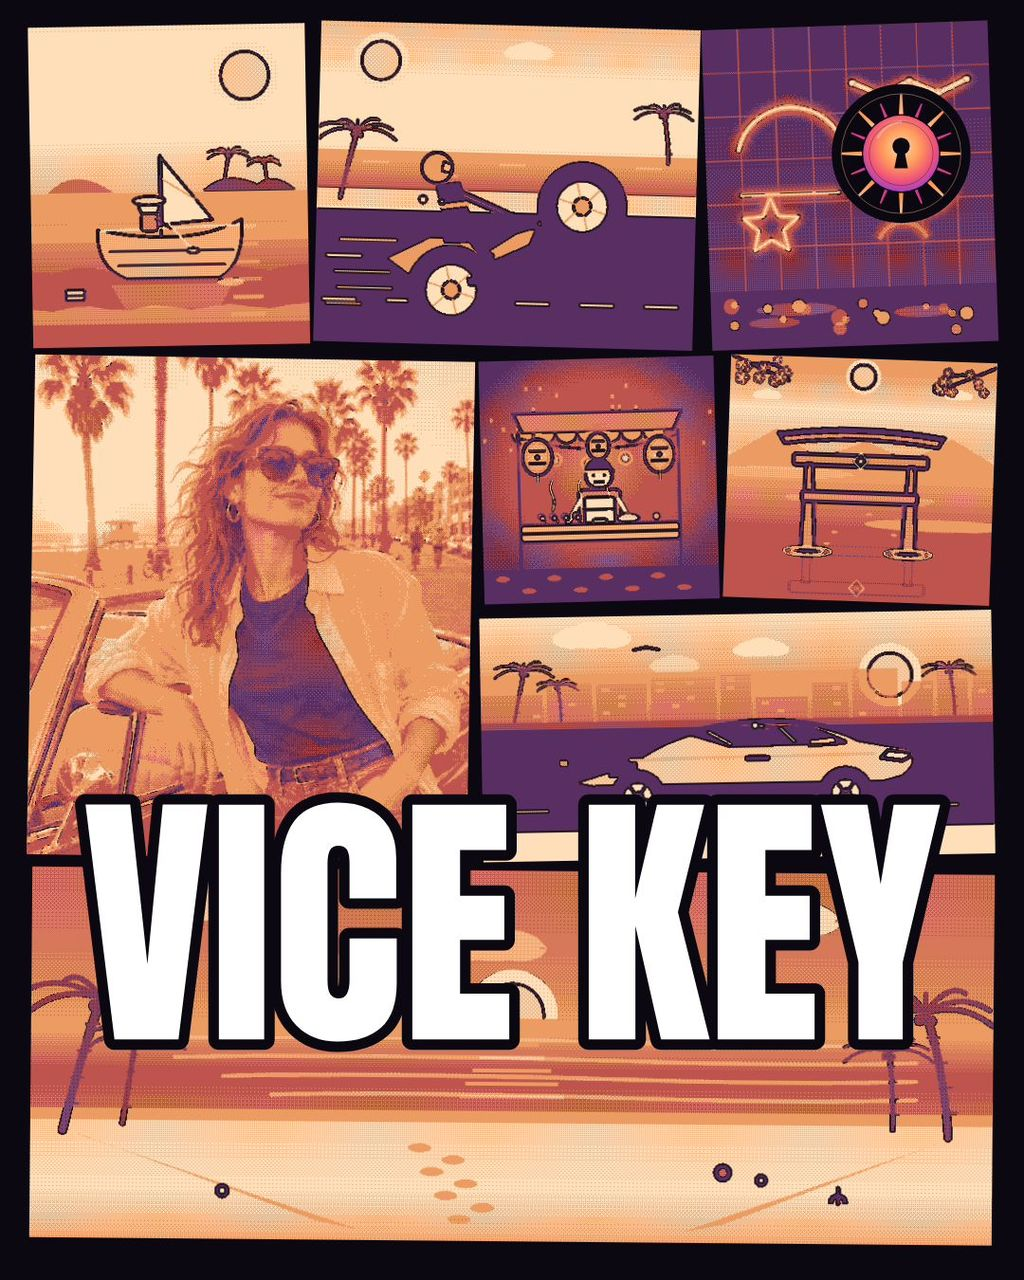
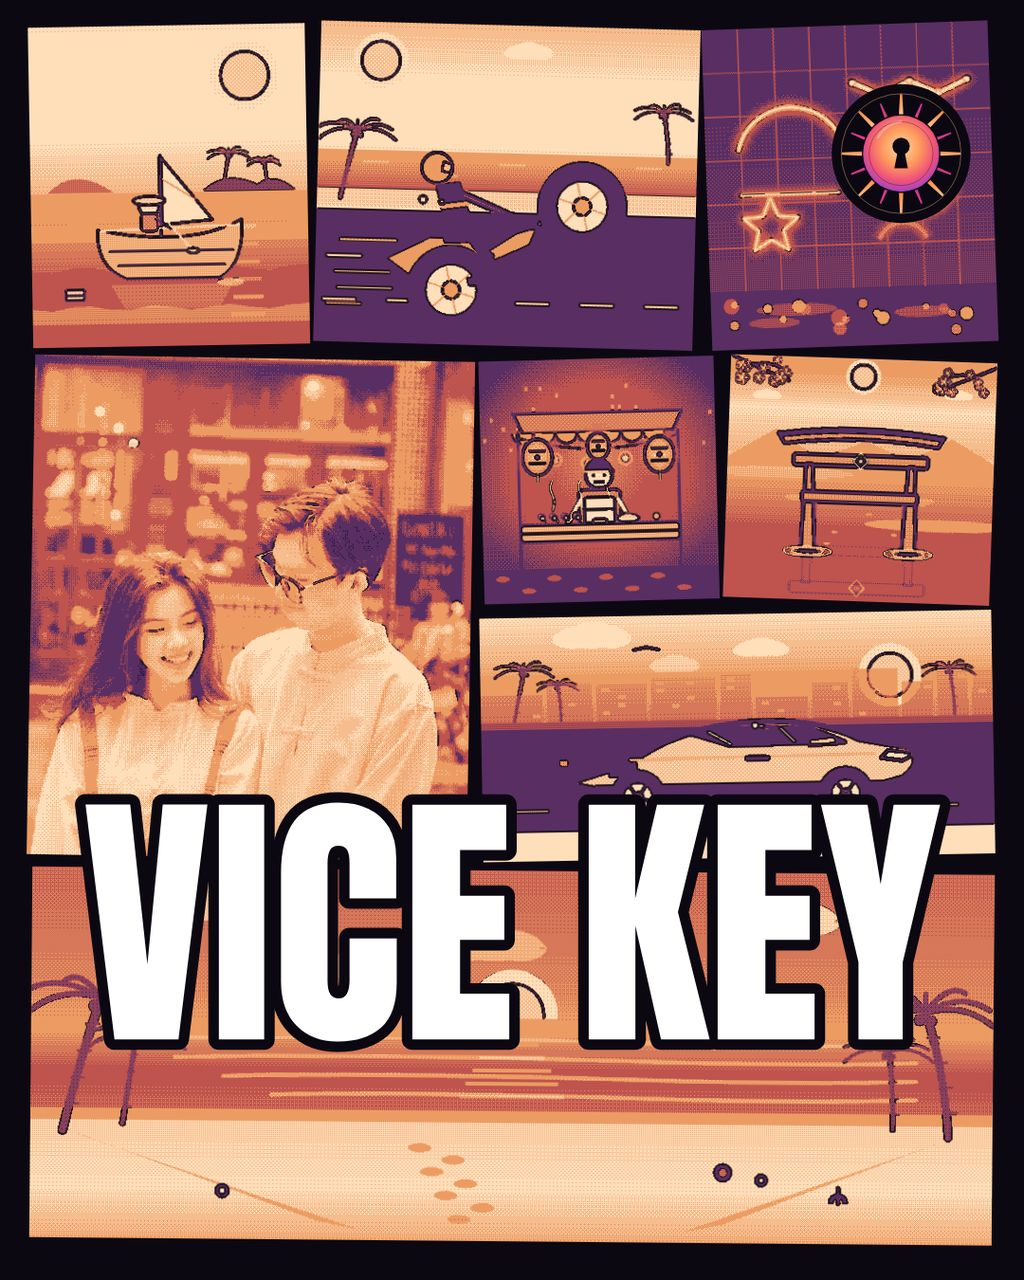
VICE KEY round 3: real couple photo as hero + Kyoto vignette
- Hero (shot 2, Key Art/Sunset): free-stock couple photo
  app/samples/couple-neon.jpg (Pexels License, Toan Van) with a
  zoom-1.15 anchor crop that excludes the Baozi neon sign entirely;
  both faces large, clear of the title band.
- Shot 3 (5-panel grid/Neon Nights): same couple in the hero
  (zoom 1.5, sign excluded) + rainy-Kyoto couple photo
  app/samples/couple-kyoto.jpg (Pexels License, Michael Dupuis)
  as a vignette in the car panel.
- App UI gains one-click sample buttons for both couple photos;
  footer + README state honestly that the neon couple is
  Vietnamese, not the brief's Japanese couple, and that the
  Kyoto faces are small — demo input, not a relabelled brief.
- Shots 1 (pier/editor) and 4 (3-size export/Teal Heat) unchanged.
- Validation: CDP capture (VICEKEY_SHOT_READY), title 83.2% width,
  caps y 62.7-81.3%, perf median preview 74ms / export 221ms,
  dossier 1,166,085 bytes, zero dotfiles in output.

diff --git a/app/src/shots.js b/app/src/shots.js
@@ -48,10 +48,21 @@ async function shot1() {
 }
 
 async function shot2(emblemImg) {
-  // Hero Key Art full-bleed: boulevard.jpg (real sunset portrait) in the hero.
-  const photo = await loadPhoto('samples/boulevard.jpg');
+  // Hero Key Art full-bleed: couple-neon.jpg (free-stock couple photo,
+  // Pexels License, photographer Toàn Văn — Vietnamese couple, NOT the
+  // brief's Japanese couple; demo input only) in the hero.
+  // Hero crop, worked out from the photo's own geometry (1600x2400):
+  // the orange "Baozi" neon sign spans y ~11-27% of the photo. Key Art
+  // hero panel ratio is 0.882, so at zoom 1.15 the cover crop is
+  // 1391x1577 px and its top edge can sit at y=823/2400 (34%) — the sign
+  // is fully above the crop. Anchor (0.55, 0.72) centres the two faces;
+  // woman's chin lands ~60% of the panel, man's ~54% — both clear of
+  // the title band (panel ends at y 67% of the cover).
+  const photo = await loadPhoto('samples/couple-neon.jpg');
   const canvas = makeCanvas('4:5', false);
-  const assignments = assignPhotos([photo], panelFillOrder('keyart', '4:5'));
+  const assignments = new Map([
+    ['E', { photo, zoom: 1.15, anchor: { x: 0.55, y: 0.72 } }],
+  ]);
   await renderCover(canvas, {
     layout: 'keyart',
     grade: 'sunset',
@@ -65,13 +76,23 @@ async function shot2(emblemImg) {
 }
 
 async function shot3(emblemImg) {
-  // 5-panel grid, Neon Nights, group photo in the hero + pier in the car panel.
-  const group = await loadPhoto('test-photos/test-group.jpg');
-  const pier = await loadPhoto('samples/pier.jpg');
+  // 5-panel grid, Neon Nights, multi-photo: couple-neon.jpg in the hero
+  // (same couple as shot 2, new layout + new grade) + couple-kyoto.jpg
+  // (rainy Kyoto night, photographer Michael Dupuis, Pexels License —
+  // genuinely Japan, faces small) as a vignette in the car panel (H).
+  // Grid hero ratio is 0.603, so at zoom 1.5 the cover crop is 965x1600 px
+  // with its top edge at y=800/2400 (33%) — the "Baozi" sign is fully
+  // above the crop again; both faces stay in frame, woman's chin ~62%
+  // of the panel (cover y ~43%, clear of the title band).
+  // Kyoto vignette: panel H ratio is 1.10 (landscape), so the crop is the
+  // full 1600 px wide x 1455 px tall; anchor (0.65, 0.50) centres the
+  // couple under the umbrella (faces ~y 37-40% of the panel).
+  const neon = await loadPhoto('samples/couple-neon.jpg');
+  const kyoto = await loadPhoto('samples/couple-kyoto.jpg');
   const canvas = makeCanvas('4:5', false);
   const assignments = new Map([
-    ['E', { photo: group, zoom: 1 }],
-    ['H', { photo: pier, zoom: 1 }],
+    ['E', { photo: neon, zoom: 1.5, anchor: { x: 0.56, y: 0.75 } }],
+    ['H', { photo: kyoto, zoom: 1, anchor: { x: 0.65, y: 0.5 } }],
   ]);
   await renderCover(canvas, {
     layout: 'grid',

diff --git a/app/index.html b/app/index.html
@@ -27,6 +27,8 @@
       <div class="sample-row">
         <button type="button" id="sample-pier">Sample: pier</button>
         <button type="button" id="sample-boulevard">Sample: boulevard</button>
+        <button type="button" id="sample-couple">Sample: couple (neon)</button>
+        <button type="button" id="sample-kyoto">Sample: couple (Kyoto rain)</button>
       </div>
       <div class="photo-strip" id="photo-strip" aria-live="polite"></div>
       <p class="note" id="photo-note">No photos yet — the cover uses built-in demo art.</p>
@@ -78,7 +80,7 @@
 </main>
 
 <footer class="app-footer">
-  <p>Title font: Anton (SIL Open Font License 1.1) — see OFL-Anton.txt. Sun-disc emblem, all panel art and lettering are original procedural work. Sample photos are the kit-provided samples. No affiliation with any game or publisher.</p>
+  <p>Title font: Anton (SIL Open Font License 1.1) — see OFL-Anton.txt. Sun-disc emblem, all panel art and lettering are original procedural work. Sample photos: the kit-provided samples, plus two free-stock couple photos (Pexels License) as demo input — "couple (neon)" is a Vietnamese couple photographed by Toàn Văn, "couple (Kyoto rain)" is a couple in Kyoto photographed by Michael Dupuis; neither is presented as the brief's Japanese couple. No affiliation with any game or publisher.</p>
 </footer>
 
 <script type="module" src="src/main.js"></script>

diff --git a/app/src/main.js b/app/src/main.js
@@ -396,6 +396,8 @@ async function init() {
   });
   $('sample-pier').addEventListener('click', () => addPhotoFromUrl('samples/pier.jpg'));
   $('sample-boulevard').addEventListener('click', () => addPhotoFromUrl('samples/boulevard.jpg'));
+  $('sample-couple').addEventListener('click', () => addPhotoFromUrl('samples/couple-neon.jpg'));
+  $('sample-kyoto').addEventListener('click', () => addPhotoFromUrl('samples/couple-kyoto.jpg'));
   $('zoom-slider').addEventListener('input', (e) => {
     const asg = state.assignments.get(state.selectedPanel);
     if (!asg) return;

diff --git a/README.md b/README.md
@@ -19,6 +19,17 @@ screenshots. Validation (5 adversarial photos × 3 sizes, thumbnail
 readability, export timings) is in the build log
 `~/workspace/makefun/cover-art-concept/build-log.md`.
 
+Round 3 (20 Nov 2026): the hero is now a real couple photo — a free-stock
+couple photo under the Pexels License (`app/samples/couple-neon.jpg`,
+photographer Toàn Văn) with a crop that excludes the "Baozi" neon sign, and
+a rainy-Kyoto couple photo (`app/samples/couple-kyoto.jpg`, photographer
+Michael Dupuis) as a vignette in the 5-panel grid shot. Honest note: the
+neon couple is Vietnamese, not the Japanese couple from the brief, and the
+Kyoto couple's faces are small in frame — both are demo input to the app,
+not a claim that the brief's couple was photographed. No free-stock photo
+matching the full brief (young Japanese couple, big faces, sunset) exists;
+the procedural demo-art hero remains the fallback.
+
 ## How it works
 
 - Load your own photo(s) from your machine (up to 6), or use the built-in
